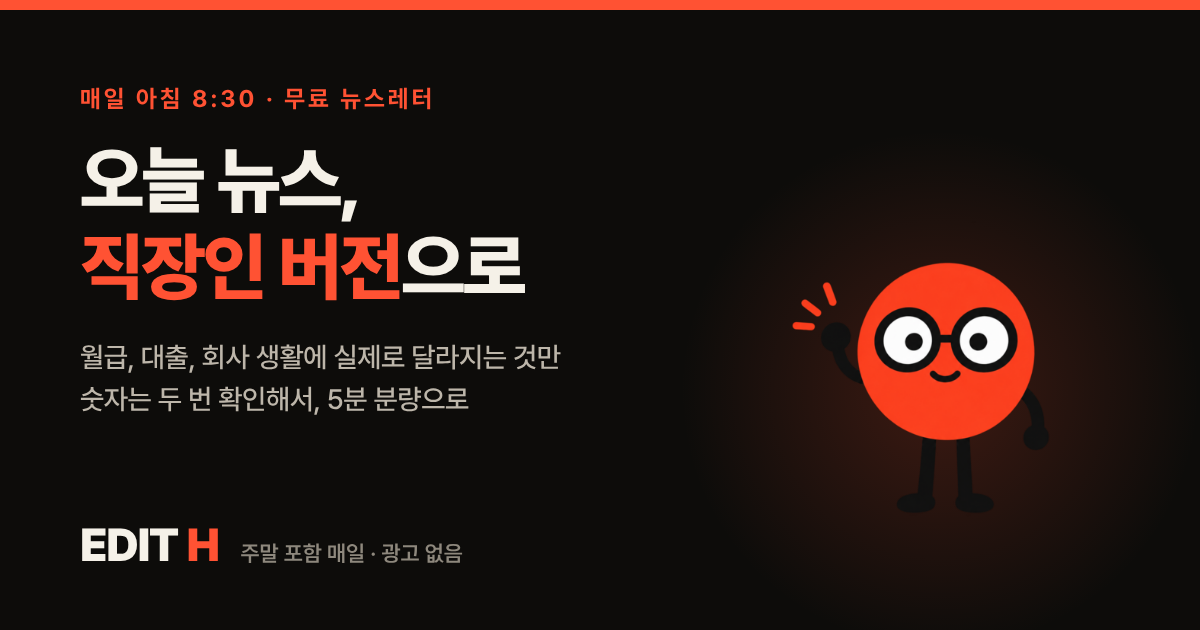
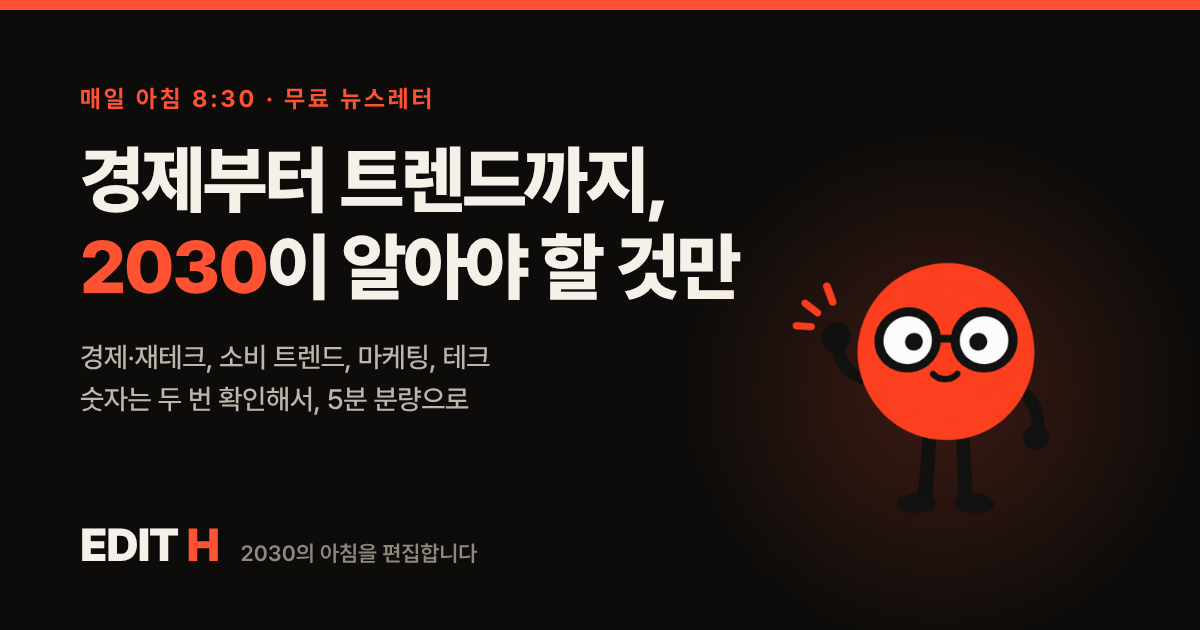
Broaden EDIT H to all of 2030 and make the closing block stand out
- Brand line becomes "2030의 아침을 편집합니다"; the home and subscribe page
  headline becomes "경제부터 트렌드까지, 2030이 알아야 할 것만" (owner: wider
  than office workers — marketing, trends, economy). The newsletter footer
  and share mail (from the 11/01 issue), RSS and og_image follow.
- RUNBOOK selection rule 1 now covers four strands (economy, trends,
  marketing and brands, work and tech), with a mix rule. audience is "2030".
  AGENTS.md intro updated; E18 added to references.md (judged 11/22).
- The IG follow card intro line switches from 11/07, after the E11 sample.
- Closing CTA: a dark band with an orange accent, an orange button and the
  mascot on a light circle, replacing orange on orange. The sticky bar hides
  over the closing block and the footer.
- selftest checks the new copy and the 11/07 follow-card line.

Claude-Session: https://claude.ai/code/session_01ERT3EipEoswRZZJYwfnxsr

Changed region(s): [[0.0617, 0.2111, 0.6167, 0.4825], [0.0617, 0.5429, 0.4625, 0.6032], [0.185, 0.8444, 0.4008, 0.9048]]

diff --git a/index.html b/index.html
@@ -3,11 +3,11 @@
 <head>
 <meta charset="UTF-8">
 <meta name="viewport" content="width=device-width, initial-scale=1.0">
-<title>EDIT H — 오늘 뉴스, 직장인 버전으로</title>
-<meta name="description" content="오늘 뉴스, 직장인 버전으로. 쏟아지는 뉴스 중 월급, 대출, 회사 생활에 실제로 달라지는 것만 골라 매일 아침 8시 30분에 보내는 무료 뉴스레터 EDIT H. 지난 호를 모두 볼 수 있어요.">
+<title>EDIT H — 경제부터 트렌드까지, 2030이 알아야 할 것만</title>
+<meta name="description" content="경제부터 트렌드까지, 2030이 알아야 할 것만. 경제·재테크, 소비 트렌드, 마케팅·브랜드, 테크 소식을 골라 매일 아침 8시 30분에 보내는 무료 뉴스레터 EDIT H. 지난 호를 모두 볼 수 있어요.">
 <meta name="theme-color" content="#FFFFFF">
-<meta property="og:title" content="EDIT H — 오늘 뉴스, 직장인 버전으로">
-<meta property="og:description" content="월급, 대출, 회사 생활에 실제로 달라지는 것만 골라 매일 아침 8시 30분에. 무료·광고 없음.">
+<meta property="og:title" content="EDIT H — 경제부터 트렌드까지, 2030이 알아야 할 것만">
+<meta property="og:description" content="2030의 아침을 편집합니다. 매일 아침 8시 30분, 무료·광고 없음.">
 <meta property="og:image" content="https://vetnam555-del.github.io/edit-h-archive/og_image.png">
 <meta property="og:image:width" content="1200">
 <meta property="og:image:height" content="630">
@@ -23,7 +23,7 @@
 <link rel="preconnect" href="https://cdn.jsdelivr.net" crossorigin>
 <link rel="stylesheet" href="https://cdn.jsdelivr.net/gh/orioncactus/pretendard@v1.3.9/dist/web/variable/pretendardvariable-dynamic-subset.min.css">
 <!-- 2026-11-01 운영자 "첫 화면에서 바로 구독 신청해서 구독 수를 높이게 구조 변경 + 디자인 전체 개선" → 같은 날 "좀 촌스러운 것 같은데"
-     → "내 돈·일·소비 같은 문구도 촌스럽다"(문구 체계: automation/reviews/2026-11-01-copy.md — 대표 한 줄 '오늘 뉴스, 직장인 버전으로').
+     → "내 돈·일·소비 같은 문구도 촌스럽다"(문구 체계: automation/reviews/2026-11-01-copy.md — 대표 한 줄 '2030의 아침을 편집합니다' — 11/01 운영자 '직장인보다 2030 마케팅·트렌드·경제 폭넓게').
      2판: 레퍼런스(Morning Brew·1440·캐릿)처럼 단색 바탕·큰 글자·입력칸 하나로 줄이고, 장식(빛번짐·이모지·말풍선)을 빼고,
      실제로 보낸 최근 호를 휴대폰 모양 안에 그대로 보여 준다(무엇을 받는지 첫 화면에서). 색·칩은 뉴스레터 본문과 같은 말투.
      구독 칸은 subscribe.html 과 같은 Formspree 주소·칸. 지난 호 목록·최근 호 카드·호 수는 빌드가 manifest 로 다시 쓴다
@@ -168,12 +168,16 @@
   .noresult { margin: 18px 0 0; padding: 18px; background: var(--band); border-radius: 14px; color: var(--sub); text-align: center; }
 
   /* 마지막 권유 */
-  .closing { margin-top: 80px; background: var(--brand); color: var(--ink); }
-  .closing .wrap { display: flex; flex-wrap: wrap; align-items: center; justify-content: space-between; gap: 24px; padding-top: 52px; padding-bottom: 52px; }
-  .closing h2 { margin: 0 0 6px; font-size: clamp(26px, 6vw, 38px); line-height: 1.2; letter-spacing: -0.045em; font-weight: 800; }
-  .closing p { margin: 0; font-size: 15px; font-weight: 500; }
+  /* 11/01 운영자 "하단이 전부 주황색이라 눈에 안 띈다"(주황 바탕에 주황 마스코트·검은 글씨) → 검은 띠 위에 주황 마스코트·주황 버튼 */
+  .closing { margin-top: 80px; background: var(--ink); color: #fff; }
+  .closing .wrap { display: flex; flex-wrap: wrap; align-items: center; justify-content: space-between; gap: 24px; padding-top: 56px; padding-bottom: 56px; }
+  .closing h2 { margin: 0 0 8px; font-size: clamp(26px, 6vw, 38px); line-height: 1.2; letter-spacing: -0.045em; font-weight: 800; }
+  .closing h2 .hl { color: var(--brand); }
+  .closing p { margin: 0; font-size: 15px; font-weight: 500; color: #BDB6AA; }
   .closing .act { display: flex; align-items: center; gap: 18px; }
-  .closing img { width: 104px; height: 104px; }
+  .closing img { width: 112px; height: 112px; padding: 8px; border-radius: 50%; background: var(--band); }  /* 검은 띠에서 마스코트 다리·컵이 묻히지 않게 */
+  .closing .btn { color: var(--ink); background: var(--brand); }
+  .closing .btn:hover { background: #FF7356; }
   .btn { display: inline-block; text-decoration: none; font-weight: 700; font-size: 16px; color: #fff; background: var(--ink); padding: 15px 26px; border-radius: 12px; }
   .btn:hover { background: #333; }
   .footer { padding: 32px 0 104px; font-size: 13px; color: var(--mute); }
@@ -218,8 +222,8 @@
   <div class="wrap">
     <div class="hero-copy">
       <p class="kicker"><span class="dot" aria-hidden="true"></span>매일 아침 8:30 · 무료 뉴스레터</p>
-      <h1 id="hero-title">오늘 뉴스,<br><span class="hl">직장인 버전</span>으로</h1>
-      <p class="lead">쏟아지는 뉴스 중 월급, 대출, 회사 생활에 실제로 달라지는 것만 골라, 소식마다 '그래서 나는 뭘 하면 되는지'까지 5분 분량으로 정리해요. 숫자는 서로 다른 두 곳에서 확인합니다.</p>
+      <h1 id="hero-title">경제부터 트렌드까지,<br><span class="hl">2030</span>이 알아야 할 것만</h1>
+      <p class="lead">경제와 재테크, 소비 트렌드, 마케팅과 브랜드, 테크까지. 쏟아지는 소식 중 오늘 알아야 할 것만 골라 '그래서 나는?'까지 5분 분량으로 정리해요. 숫자는 서로 다른 두 곳에서 확인합니다.</p>
 
       <form class="sub-form" id="subscribeForm" action="https://formspree.io/f/xwvznwyw" method="POST">
         <div class="field">
@@ -263,7 +267,7 @@
   <div class="wrap">
     <div class="fact"><b><span data-issue-count>130</span>호</b><small>주말·공휴일 포함<br>매일 발행</small></div>
     <div class="fact"><b>2곳</b><small>숫자는 서로 다른<br>두 곳에서 확인</small></div>
-    <div class="fact"><b>5분</b><small>출근길에<br>다 읽는 분량</small></div>
+    <div class="fact"><b>5분</b><small>아침에<br>다 읽는 분량</small></div>
   </div>
 </section>
 
@@ -303,7 +307,7 @@
       <div class="search">
         <svg viewBox="0 0 24 24" fill="none" stroke="currentColor" stroke-width="2.2" stroke-linecap="round" aria-hidden="true"><circle cx="11" cy="11" r="7"/><path d="m20 20-3.5-3.5"/></svg>
         <label for="q" class="sr-only">지난 호 검색</label>
-        <input type="search" id="q" placeholder="지난 호 검색 (예: 금리, 연말정산)" autocomplete="off">
+        <input type="search" id="q" placeholder="지난 호 검색 (예: 금리, 브랜드, AI)" autocomplete="off">
       </div>
     </div>
     <p class="noresult" id="noresult" hidden>찾는 말이 들어간 호가 없어요. 다른 말로 찾아보세요.</p>
@@ -1106,11 +1110,11 @@
 <section class="closing" aria-labelledby="cta-title">
   <div class="wrap">
     <div>
-      <h2 id="cta-title">내일 아침 8시 30분,<br>메일함에서 만나요</h2>
+      <h2 id="cta-title">내일 아침 <span class="hl">8시 30분</span>,<br>메일함에서 만나요</h2>
       <p>무료 · 광고 없음 · 언제든 1-click 해지</p>
     </div>
     <div class="act">
-      <img src="assets/mascot/h-coffee.png" width="104" height="104" alt="" aria-hidden="true">
+      <img src="assets/mascot/h-coffee.png" width="112" height="112" alt="" aria-hidden="true">
       <a class="btn" href="#subscribe" data-jump>무료로 구독하기</a>
     </div>
   </div>
@@ -1193,11 +1197,18 @@
     a.addEventListener('click', function () { $('privacy').open = true; });
   });
 
-  // 아래 고정 띠 — 구독 칸이 화면 밖일 때만, 이미 신청했으면 안 보인다
+  // 아래 고정 띠 — 구독 칸·마지막 권유·바닥이 화면 밖일 때만(겹쳐 가리지 않게), 이미 신청했으면 안 보인다
   if ('IntersectionObserver' in window && store.get('edith_subscribed') !== '1') {
-    new IntersectionObserver(function (es) {
-      es.forEach(function (en) { sticky.hidden = en.isIntersecting || !form.offsetParent; });
-    }, { threshold: 0.05 }).observe(form);
+    var inView = [], spots = [form, document.querySelector('.closing'), document.querySelector('.footer')].filter(Boolean);
+    var io = new IntersectionObserver(function (es) {
+      es.forEach(function (en) {
+        var i = inView.indexOf(en.target);
+        if (en.isIntersecting && i < 0) inView.push(en.target);
+        if (!en.isIntersecting && i >= 0) inView.splice(i, 1);
+      });
+      sticky.hidden = inView.length > 0 || !form.offsetParent;
+    }, { threshold: 0.05 });
+    spots.forEach(function (el) { io.observe(el); });
   }
 
   // 지난 호 찾기 — 제목·부제·날짜에 든 말로 거른다

diff --git a/subscribe.html b/subscribe.html
@@ -3,12 +3,12 @@
 <head>
 <meta charset="UTF-8">
 <meta name="viewport" content="width=device-width, initial-scale=1.0">
-<title>EDIT H 구독하기 — 오늘 뉴스, 직장인 버전으로</title>
-<meta name="description" content="오늘 뉴스, 직장인 버전으로. 월급, 대출, 회사 생활에 실제로 달라지는 것만 골라 매일 아침 8시 30분에 보내는 무료 뉴스레터 EDIT H 구독 신청.">
+<title>EDIT H 구독하기 — 경제부터 트렌드까지, 2030이 알아야 할 것만</title>
+<meta name="description" content="경제부터 트렌드까지, 2030이 알아야 할 것만. 매일 아침 8시 30분에 보내는 무료 뉴스레터 EDIT H 구독 신청.">
 <link rel="canonical" href="https://vetnam555-del.github.io/edit-h-archive/subscribe.html">
 <meta name="theme-color" content="#FFFFFF">
-<meta property="og:title" content="EDIT H — 오늘 뉴스, 직장인 버전으로">
-<meta property="og:description" content="월급, 대출, 회사 생활에 실제로 달라지는 것만 골라 매일 아침 8시 30분에. 무료·광고 없음.">
+<meta property="og:title" content="EDIT H — 경제부터 트렌드까지, 2030이 알아야 할 것만">
+<meta property="og:description" content="2030의 아침을 편집합니다. 매일 아침 8시 30분, 무료·광고 없음.">
 <meta property="og:type" content="website">
 <meta property="og:image" content="https://vetnam555-del.github.io/edit-h-archive/og_image.png">
 <meta property="og:image:width" content="1200">
@@ -163,12 +163,16 @@
   .noresult { margin: 18px 0 0; padding: 18px; background: var(--band); border-radius: 14px; color: var(--sub); text-align: center; }
 
   /* 마지막 권유 */
-  .closing { margin-top: 80px; background: var(--brand); color: var(--ink); }
-  .closing .wrap { display: flex; flex-wrap: wrap; align-items: center; justify-content: space-between; gap: 24px; padding-top: 52px; padding-bottom: 52px; }
-  .closing h2 { margin: 0 0 6px; font-size: clamp(26px, 6vw, 38px); line-height: 1.2; letter-spacing: -0.045em; font-weight: 800; }
-  .closing p { margin: 0; font-size: 15px; font-weight: 500; }
+  /* 11/01 운영자 "하단이 전부 주황색이라 눈에 안 띈다"(주황 바탕에 주황 마스코트·검은 글씨) → 검은 띠 위에 주황 마스코트·주황 버튼 */
+  .closing { margin-top: 80px; background: var(--ink); color: #fff; }
+  .closing .wrap { display: flex; flex-wrap: wrap; align-items: center; justify-content: space-between; gap: 24px; padding-top: 56px; padding-bottom: 56px; }
+  .closing h2 { margin: 0 0 8px; font-size: clamp(26px, 6vw, 38px); line-height: 1.2; letter-spacing: -0.045em; font-weight: 800; }
+  .closing h2 .hl { color: var(--brand); }
+  .closing p { margin: 0; font-size: 15px; font-weight: 500; color: #BDB6AA; }
   .closing .act { display: flex; align-items: center; gap: 18px; }
-  .closing img { width: 104px; height: 104px; }
+  .closing img { width: 112px; height: 112px; padding: 8px; border-radius: 50%; background: var(--band); }  /* 검은 띠에서 마스코트 다리·컵이 묻히지 않게 */
+  .closing .btn { color: var(--ink); background: var(--brand); }
+  .closing .btn:hover { background: #FF7356; }
   .btn { display: inline-block; text-decoration: none; font-weight: 700; font-size: 16px; color: #fff; background: var(--ink); padding: 15px 26px; border-radius: 12px; }
   .btn:hover { background: #333; }
   .footer { padding: 32px 0 104px; font-size: 13px; color: var(--mute); }
@@ -213,8 +217,8 @@
   <div class="wrap">
     <div class="hero-copy">
       <p class="kicker"><span class="dot" aria-hidden="true"></span>매일 아침 8:30 · 무료 뉴스레터</p>
-      <h1 id="hero-title">오늘 뉴스,<br><span class="hl">직장인 버전</span>으로</h1>
-      <p class="lead">쏟아지는 뉴스 중 월급, 대출, 회사 생활에 실제로 달라지는 것만 골라, 소식마다 '그래서 나는 뭘 하면 되는지'까지 5분 분량으로 정리해요. 숫자는 서로 다른 두 곳에서 확인합니다.</p>
+      <h1 id="hero-title">경제부터 트렌드까지,<br><span class="hl">2030</span>이 알아야 할 것만</h1>
+      <p class="lead">경제와 재테크, 소비 트렌드, 마케팅과 브랜드, 테크까지. 쏟아지는 소식 중 오늘 알아야 할 것만 골라 '그래서 나는?'까지 5분 분량으로 정리해요. 숫자는 서로 다른 두 곳에서 확인합니다.</p>
 
       <form id="subscribeForm" action="https://formspree.io/f/xwvznwyw" method="POST" class="sub-form">
         <div class="field">

diff --git a/automation/selftest.py b/automation/selftest.py
@@ -1153,6 +1153,9 @@ def t_card_ratio():
                "3:4 날 카드에 1440 높이·팔로우 카드가 없다")
         page_old, _ = cards.build(d, "")
         expect(".card{height:1440px;}" not in page_old and "팔로우하고 내일 아침에 받기" not in page_old, "지난 호 카드가 바뀐다")
+        page_v2, _ = cards.build({**d, "date": cards.FOLLOW_LINE_V2_FROM}, "")
+        expect("2030이 알아야 할 소식" in page_v2 and "돈·일·소비 뉴스" not in page_v2,
+               "E11 표본 다음 날부터 팔로우 카드 소개 줄이 새 문구(2030 폭넓게)가 아니다")
         expect(cards.follow_on({"date": "2026-10-31"}) and not cards.follow_on({"date": "2026-10-31", "poll": {"q": 1}}),
                "팔로우 카드 날짜·투표 날 예외가 틀린다")
         html_page = site.gallery_page(d_new, "https://x", ["01.png"], "caption")
@@ -1557,7 +1560,8 @@ def t_home():
 
 def t_brand_v2():
     """문구·마크 2판(2026-11-01 운영자 '내 돈·일·소비 같은 문구가 촌스럽다', automation/reviews/2026-11-01-copy.md):
-    11/01 호부터 메일 바닥·추천 메일이 '오늘 뉴스, 직장인 버전으로', 프로필 카드·노트 마크가 마스코트 얼굴(미소)이고,
+    11/01 호부터 메일 바닥·추천 메일이 대표 한 줄(BRAND_LINE — 같은 날 운영자 '직장인보다 2030 마케팅·트렌드·경제 폭넓게'로
+    '2030의 아침을 편집합니다'), 프로필 카드·노트 마크가 마스코트 얼굴(미소)이고,
     그 전 호는 예전 그대로(지난 호 다시 빌드가 발행본과 같아야 한다). 사이트·구독 페이지·RSS 에 옛 문구가 남지 않았다."""
     import copy as copy_mod
     import inspect
@@ -1576,7 +1580,8 @@ def t_brand_v2():
     expect("border-radius:0 0" in b and "border-radius:0 0" not in a, "11/01 호 프로필·노트 마크가 마스코트 얼굴(미소)이 아니다")
     for name in ("index.html", "subscribe.html"):
         page = (ROOT / name).read_text(encoding="utf-8")
-        expect("직장인 버전" in page and "돈·일·소비에" not in page and "트렌드 한 입" not in page and "TREND BRIEF" not in page,
+        expect("2030이 알아야 할 것만" in page and "직장인 버전" not in page and "돈·일·소비에" not in page
+               and "트렌드 한 입" not in page and "TREND BRIEF" not in page,
                f"{name} 에 옛 문구가 남았거나 새 대표 문구가 없다")
     expect("트렌드 한 입" not in inspect.getsource(site_mod.write_feeds), "RSS 제목이 옛 문구다")
     return f"{newsletter.BRAND_V2_FROM} 호부터 · '{newsletter.BRAND_LINE}'"
@@ -1740,7 +1745,7 @@ def main():
     check("데일리 저장각(체크리스트·차트)", t_save_cards)
     check("마스코트(안경 동그라미 H)", t_mascot)
     check("첫 화면 구독·사이트 그림(index.html)", t_home)
-    check("문구·마크 2판(직장인 버전·마스코트 얼굴)", t_brand_v2)
+    check("문구·마크 2판(2030 대표 한 줄·마스코트 얼굴)", t_brand_v2)
     check("경쟁 매체 인스타(비즈니스 탐색)", t_competitors_ig)
     check("경쟁 매체 웹(토큰 없이·robots 지킴)", t_competitors_web)
     if not args.quick:

diff --git a/automation/edith/cards.py b/automation/edith/cards.py
@@ -507,6 +507,17 @@ def follow_on(d):
     return bool(start and str(d["date"])[:10] >= start and not d.get("poll"))
 
 
+# 팔로우 카드 소개 줄 — 11/01 운영자 "꼭 직장인보다는 2030 마케팅, 트렌드, 경제 등 폭넓게"(automation/reviews/2026-11-01-copy.md).
+# E11(팔로우 카드) 표본 10/31~11/06 은 예전 줄 그대로 두고 그다음 날부터 바꾼다. 지난 호 카드는 다시 만들어도 예전 그대로(기록).
+FOLLOW_LINE_V2_FROM = "2026-11-07"
+
+
+def follow_line(d, when, n):
+    if str(d["date"])[:10] >= FOLLOW_LINE_V2_FROM:
+        return f"매일 아침 {when}, 경제부터 트렌드까지 2030이 알아야 할 소식 {n}가지"
+    return f"매일 아침 {when}, 2030 직장인의 돈·일·소비 뉴스 {n}가지"
+
+
 def cta_follow(d):
     """마무리 — 팔로우 카드(2026-10-30 운영자 '슬라이드투티켓 템플릿 ver.3' 엔딩: 이미지·계정명 중심, '어떤 계정인지·앞으로 무엇을
     만날지' 한 문장, 팔로우 버튼). 예전 마무리는 '팔로우 + 저장해두기>'가 옅은 글자 링크라 캐러셀을 보고 팔로우 0·프로필 방문 2
@@ -529,7 +540,7 @@ def cta_follow(d):
     padding:44px 48px 40px;display:flex;flex-direction:column;align-items:center;text-align:center;">
     {avatar(132)}
     <div style="margin-top:22px;font-weight:800;font-size:{fs(40)};line-height:1;color:{TEXT};">edit.h.kr</div>
-    <div class="bal" style="margin-top:16px;font-weight:500;font-size:{fs(30)};line-height:1.45;color:{SUB};">매일 아침 {when}, 2030 직장인의 돈·일·소비 뉴스 {n}가지</div>
+    <div class="bal" style="margin-top:16px;font-weight:500;font-size:{fs(30)};line-height:1.45;color:{SUB};">{follow_line(d, when, n)}</div>
     <div style="flex:none;width:100%;display:grid;grid-template-columns:repeat(3,1fr);margin-top:28px;">{stat_html}</div>
     <div style="flex:none;margin-top:32px;width:100%;background:#000000;color:#FFFFFF;border-radius:999px;padding:26px 0;
       font-weight:800;font-size:{fs(36)};line-height:1;">팔로우하고 내일 아침에 받기</div>

diff --git a/automation/edith/newsletter.py b/automation/edith/newsletter.py
@@ -212,9 +212,9 @@ AVATAR_MARK = ('<table role="presentation" aria-hidden="true" width="58" height=
 
 # 2026-11-01 운영자 '내 돈·일·소비 같은 문구가 촌스럽다 … 프로필 이미지도 최신본으로'(automation/reviews/2026-11-01-copy.md).
 # 이날 호부터 ① 프로필·노트 마크를 마스코트 얼굴(안경 + 미소, assets/mascot/profile.png)로 ② 바닥·추천 메일 문구를 새 한 줄
-# '오늘 뉴스, 직장인 버전으로'로. 지난 호를 다시 빌드하면 예전 그대로 나온다(기록). 메일엔 여전히 그림 파일을 쓰지 않고 도형으로 그린다.
+# '2030의 아침을 편집합니다'로(같은 날 운영자 '직장인보다 2030 마케팅·트렌드·경제 폭넓게'로 고침). 지난 호를 다시 빌드하면 예전 그대로 나온다(기록). 메일엔 여전히 그림 파일을 쓰지 않고 도형으로 그린다.
 BRAND_V2_FROM = "2026-11-01"
-BRAND_LINE = "오늘 뉴스, 직장인 버전으로"
+BRAND_LINE = "2030의 아침을 편집합니다"   # 11/01 운영자: 직장인보다 2030 마케팅·트렌드·경제 폭넓게
 
 
 def _v2(d):
@@ -421,7 +421,7 @@ def _share_mailto(d, site):
     when = send_time_ko(load_config()['send_time_kst']).replace('오전', '아침')
     if _v2(d):
         subject = f"{BRAND_LINE} — EDIT H 추천해요"
-        pitch = f"매일 {when}, 직장인에게 실제로 달라지는 소식 {n}가지를 골라 보내줘요."
+        pitch = f"매일 {when}, 경제부터 트렌드까지 2030이 알아야 할 소식 {n}가지를 골라 보내줘요."
     else:
         subject = "매일 아침 트렌드 한 입, EDIT H 추천해요"
         pitch = f"매일 {when}에 트렌드 {n}가지를 정리해서 보내줘요."

diff --git a/automation/build_site_assets.py b/automation/build_site_assets.py
@@ -44,10 +44,10 @@ h1{{font-size:74px;line-height:1.17;font-weight:850;letter-spacing:-2.5px;margin
 <div class="bar"></div>
 <div class="wrap">
   <div class="eyebrow">매일 아침 8:30 · 무료 뉴스레터</div>
-  <h1>오늘 뉴스,<br><span class="hl">직장인 버전</span>으로</h1>
-  <div class="sub">월급, 대출, 회사 생활에 실제로 달라지는 것만<br>숫자는 두 번 확인해서, 5분 분량으로</div>
+  <h1>경제부터 트렌드까지,<br><span class="hl">2030</span>이 알아야 할 것만</h1>
+  <div class="sub">경제·재테크, 소비 트렌드, 마케팅, 테크<br>숫자는 두 번 확인해서, 5분 분량으로</div>
 </div>
-<div class="foot"><div class="logo">EDIT<span class="h"> H</span></div><div class="meta">주말 포함 매일 · 광고 없음</div></div>
+<div class="foot"><div class="logo">EDIT<span class="h"> H</span></div><div class="meta">2030의 아침을 편집합니다</div></div>
 <div class="glow"></div>
 <img class="mascot" src="{hello}" alt="">
 </body></html>"""

diff --git a/automation/edith/site.py b/automation/edith/site.py
@@ -128,10 +128,10 @@ def write_feeds(manifest, site):
     FEED.write_text(
         '<?xml version="1.0" encoding="UTF-8"?>\n'
         '<rss version="2.0" xmlns:atom="http://www.w3.org/2005/Atom">\n<channel>\n'
-        "  <title>EDIT H — 오늘 뉴스, 직장인 버전으로</title>\n"
+        "  <title>EDIT H — 2030의 아침을 편집합니다</title>\n"
         f"  <link>{site}/</link>\n"
         f'  <atom:link href="{site}/feed.xml" rel="self" type="application/rss+xml"/>\n'
-        "  <description>매일 아침 8시 30분, 월급·대출·회사 생활에 실제로 달라지는 소식만 확인된 숫자로</description>\n"
+        "  <description>매일 아침 8시 30분, 경제부터 트렌드까지 2030이 알아야 할 소식을 확인된 숫자로</description>\n"
         "  <language>ko</language>\n"
         f"  <lastBuildDate>{now}</lastBuildDate>\n"
         + "\n".join(items) + "\n</channel>\n</rss>\n", encoding="utf-8")

diff --git a/automation/references.md b/automation/references.md
@@ -15,6 +15,7 @@
 | **E4 수요일 연재 「H의 장부」** | **11/04~11/25 (4편)**(10/28 도 예비 호(Claude 사용량 바닥)라 또 한 주 밀림 — 회차는 실제로 나간 호로 세므로 11/04 가 #1. 10/21 1편 날은 제작·회고 세션과 예약 알림이 하루 동안 깨지 않아 예비 호가 나갔다 — 회차는 실제로 나간 호로 세므로 10/28 이 #1. 4편을 채우려고 한 주 늘림) | 수요일 H PICK = 소비 하나를 그 회사 숫자로 푸는 고정 연재(머니그라피 'B주류경제학' 차용) + 표지·카드·캡션에 '#회차 · 다음 편 예고' | 4편 뒤 성과표 '연재' 줄(연재 시작일부터 모든 호를 게시 24시간 뒤 점수·도달·조회로 — 14일 창 밖의 편도 포함): 연재 편 vs 그 밖의 호. 점수(저장·공유 포함)와 도달이 둘 다 앞서면 유지, 둘 다 뒤지면 되돌림 E9(아침 스토리, 10/22~)가 캐러셀 도달을 바꾸므로 **스토리 유무를 맞춰** 비교한다 — 네 편 모두 E9(10/22~) 뒤라 스토리 유무가 같은 날의 다른 호와 비교한다(E9 판정으로 스토리를 끄면 그날부터 다시 나눈다). **판정은 11/25 편의 24시간 값이 들어오는 11/26 21:30 수집 뒤(11/27 개선 루틴부터)** |
 | **E11 팔로우 카드** | **10/31~11/06 (7호)** | 마지막 장을 팔로우 카드로 — 계정 마크·`edit.h.kr`·'매일 아침 8시 30분, 2030 직장인의 돈·일·소비 뉴스 5가지'·검은 '팔로우하고 내일 아침에 받기' 버튼(`cards.cta_follow`, `follow_card_from`). 슬라이드투티켓 템플릿 ver.3 엔딩·가이드 4(reviews/2026-10-30-template-v3.md) | 성과표 캐러셀 **프로필 방문·팔로우(도달당)** 7호 vs 그 전 7호(10/29 기준 14일 합 방문 2·팔로우 0). **11/01 운영자가 프로필 사진을 마스코트 얼굴로 앞당겨 바꾸기로 했다**(assets/mascot/README) — 판정 때 교체 전후를 나눠, 도달당 프로필 방문(카드 쪽)을 주로 보고 방문당 팔로우(사진 효과가 섞임)는 참고로. **판정 11/08 개선 루틴**(11/06 호 24시간 값이 11/07 21:30 수집에) — 이 기간엔 카드를 4:5 로 고정(E12 는 11/07 이후 — 3:4 가 방문·팔로우 전환율에도 닿을 수 있어 같은 기간이면 효과를 가를 수 없다, Codex 검토) |
 | **E17 첫 화면 바로 구독** | **11/01~** | 웹 보관함 첫 화면에 이메일 한 칸 구독(이전: 버튼 → 구독 페이지로 한 번 더 이동). 인스타 프로필 링크(utm_source=ig)로 들어온 사람도 첫 화면에서 바로 신청. 최근 호 먼저 보기 카드·휴대폰 아래 고정 띠·공유 미리보기(og_image, 한글 깨짐 고침)도 함께 | 성과표 '구독 경로' ig-home·web-home 신청 수, 14일 구독 신청 수 vs 그 전 14일(0). 인스타 실험(E11·E12)과 겹치지 않는다(웹 쪽 변화). **판정 11/15 개선 루틴** |
+| **E18 독자 2030 전체로** | **11/01~**(운영자 결정) | 독자를 '2030 직장인의 돈·일·소비'(10/06~10/31, E2) → '2030 — 경제·재테크 / 트렌드·소비 / 마케팅·브랜드 / 일·테크'로 넓히고 메인 5가지는 세 갈래 이상 섞는다(RUNBOOK 1-4 기준 1). 대표 한 줄 '2030의 아침을 편집합니다'. 인스타 팔로우 카드 줄은 11/07~(E11 표본 뒤) | 성과표 독자 축 `2030` vs `2030직장인`(메일 열람·클릭·답장, 캐러셀 저장·공유), 구독 신청 수. E11·E12 와 기간이 겹쳐 인스타 수치는 참고만 하고 메일 지표로 본다. 되돌리기는 하지 않는다(운영자 방향) — 섞는 비율만 조정. **판정 11/22 주간 루틴**(정규 14호 이상) |
 | **E12 3:4 카드(1080×1440)** | **11/07~**(`card_ratio_from` = 2026-11-07 — E11 표본 10/31~11/06 다음 날. API 확인 10/30: probe-ratio 실행 40907737910 에서 1080×1440 캐러셀 컨테이너가 FINISHED — 게시 API 가 3:4 를 받는다, 게시는 안 함) | 카드·주간 특집을 3:4 로 — 프로필 격자(2025-01~ 3:4)에서 4:5 카드 좌우가 잘리고 피드에서 6.7% 더 크게 보인다. 먼저 post-instagram.yml mode=probe-ratio 로 3:4 캐러셀 컨테이너를 만들어 본다(게시 안 함) | 캐러셀 **24시간 도달·조회** 11/07~11/13 7호 vs 그 전 7호 + 격자에서 표지 제목이 잘리지 않는지 눈으로(11/07 08:50 점검). **판정 11/15 개선 루틴**(11/13 호 24시간 값이 11/14 21:30 수집에) |
 | **E13 저장각 주간 특집** | **11/06~11/27 (금 4편)**(`weekly_special.save_card_from` — 10/31 운영자 '개선사항 전부 반영') | 금요일 특집 08 장 '이번 주를 한 줄로' → **'달력에 적어 둘 다가올 날짜'**(시행·마감·기준일 2~4개 — 이미 발행한 호 원고에 글자로 있는 날짜만, 빌드가 검사). 캡션에도 날짜 줄. 경쟁 비교 2차 '잘 되는 매체는 두고 쓰는 자료' | 성과표 **'주간 특집' 표의 도달당 (저장+공유)** 4편 vs 그 전 특집 3편(10/16·10/23·10/30 — 다음 날 값이 없어 4주 누적값의 비율로. 주간 특집 수집은 10/31~). 주간 특집은 데일리와 다른 게시물이라 E11·E12·E4 와 섞이지 않는다. 11/13 부터는 3:4 라 도달로 나눈다. **판정 11/29 개선 루틴**(11/27 편 값이 11/28 21:30 수집에) |
 | **E14 데일리 저장각 — 오늘 챙길 것 카드** | **11/14~11/20 (7호)**(`instagram.todo_card_from`) | 09 에디터 H 노트에 '오늘 챙길 것 · 저장해 두고 체크'(content.todo 3줄 — 메일 첫 화면에만 있던 것) | 캐러셀 **도달당 저장** 7호 vs 그 전 7호(11/07~11/13, 3:4 같은 판형). **판정 11/22 개선 루틴** |

diff --git a/automation/reviews/2026-11-01-copy.md b/automation/reviews/2026-11-01-copy.md
@@ -2,9 +2,24 @@
 
 운영자(11/01 새벽, 웹 호 화면 캡처와 함께): "내 돈·일·소비 이런 문구도 좀 촌스럽고, 상세하게 분석해서 진행해야 할 것 같아."
 
-## 한 줄 결론
+## 고침 (11/01 새벽, 운영자) — 독자를 2030 전체로
 
-새 대표 문구는 **"오늘 뉴스, 직장인 버전으로"**다.
+> "꼭 직장인보다는 2030 마케팅, 트렌드, 경제 등 폭넓게 하고 싶었다."
+
+아래 '직장인 버전'은 독자를 좁힌 10/06 결정(E2)을 그대로 따른 것이었다. 운영자 방향이 '2030 + 경제·트렌드·마케팅'이라 문구 체계를 이렇게 바꾼다.
+
+- **대표 한 줄**: **2030의 아침을 편집합니다** — 이름(EDIT)·발송 시각(아침)·독자(2030)를 한 줄에. 분야를 나열하지 않아 넓은 범위를 다 덮는다.
+- **첫 화면 머리**: **경제부터 트렌드까지, 2030이 알아야 할 것만** — '부터~까지'가 범위의 넓이를, '것만'이 편집(골라 줌)을 말한다.
+- **풀어 쓴 한 문장**: 경제와 재테크, 소비 트렌드, 마케팅과 브랜드, 테크까지. 쏟아지는 소식 중 오늘 알아야 할 것만 골라 '그래서 나는?'까지 5분 분량으로 정리해요. 숫자는 서로 다른 두 곳에서 확인합니다.
+  (분야를 들 때는 가운뎃점 묶음 대신 쉼표와 '~까지'로 — 아래 '쓰지 않는 말' 그대로)
+- **팔로우 카드 소개 줄**(11/07~, E11 표본 뒤): 매일 아침 8시 30분, 경제부터 트렌드까지 2030이 알아야 할 소식 5가지
+- 바뀐 것: 대표 한 줄을 쓰는 모든 곳(사이트·구독 페이지·메일 바닥·추천 메일·RSS·공유 미리보기), RUNBOOK 선정 기준 1(네 갈래 + 섞기 규칙), AGENTS.md 첫 줄.
+- 견줄 곳: 캐릿(트렌드)·뉴닉(시사)·어피티(직장인 경제)의 가운데. 경쟁 매체 대부분은 한 분야만 깊게 한다 — 우리는 **여러 분야를 한 아침에, 확인된 숫자로**가 차이다.
+- '오늘 뉴스, 직장인 버전으로'는 쓰지 않는다(selftest '문구·마크 2판'이 사이트에 남지 않았는지 본다).
+
+## (처음 판) 한 줄 결론
+
+새 대표 문구는 **"오늘 뉴스, 직장인 버전으로"**다(→ 위 '고침'으로 바뀜).
 - 우리 이름이 EDIT(편집)이다. 그래서 '같은 뉴스를 직장인 기준으로 다시 편집해 준다'를 독자의 말로 한 줄에 담았다.
 - 분류 나열('돈·일·소비')과 흔한 말장난('트렌드 한 입')은 뺐다.
 
@@ -63,7 +78,7 @@
 
 | 곳 | 바뀜 | 언제 |
 |---|---|---|
-| 웹 첫 화면(index.html)·구독 페이지(subscribe.html) | 위 문구 체계. 구독 페이지도 첫 화면과 같은 디자인으로 다시 짰다(메일·지난 호의 'EDIT H 구독하기' 버튼이 옛 화면으로 가던 문제) | 11/01 |
+| 웹 첫 화면(index.html)·구독 페이지(subscribe.html) | 위 문구 체계(→ 맨 위 '고침'). 아래 마무리 칸은 주황 한 색이라 묻혀 검은 띠·주황 버튼으로(11/01 새벽 9). 구독 페이지도 첫 화면과 같은 디자인으로 다시 짰다(메일·지난 호의 'EDIT H 구독하기' 버튼이 옛 화면으로 가던 문제) | 11/01 |
 | 공유 미리보기(og_image.png)·RSS 제목 | 대표 한 줄 | 11/01 |
 | 메일(웹 호 포함) 바닥·추천 메일 제목/본문 | '트렌드 한 입' → 대표 한 줄. 프로필 카드·에디터 노트 마크 → 마스코트 얼굴(도형) | **11/01 호부터**(newsletter.py `BRAND_V2_FROM`) — 지난 호는 기록이라 다시 만들지 않는다 |
 | 인스타 카드·캡션 | **그대로** — E11(팔로우 카드, ~11/06)·E12(3:4, 11/07~) 실험 중이라 문구를 바꾸면 효과를 가를 수 없다 | 실험 판정 뒤(11/15 개선 루틴) 후보 |

diff --git a/automation/CHANGELOG.md b/automation/CHANGELOG.md
@@ -3,6 +3,15 @@
 시스템이 날마다 무엇을 바꿨는지 한 줄씩 남긴다 — **바꾼 것 — 왜(근거) — 어떻게 판정·확인**. 최신이 위.
 매일 14:10 개선 루틴(`RUNBOOK_IMPROVE.md`)과 일요일 21:00 주간 루틴이 적는다. 편집 회고는 `learnings.md`, 조사·실험은 `references.md`.
 
+### 2026-11-01 새벽 9 (운영자 — '꼭 직장인보다는 2030 마케팅, 트렌드, 경제 등 폭넓게 … 하단은 전부 주황색이라 눈에 안 띈다')
+- **독자를 2030 전체로 넓혔다** — 대표 한 줄 '오늘 뉴스, 직장인 버전으로'(새벽 7) → **'2030의 아침을 편집합니다'**, 첫 화면·구독 페이지 머리
+  **'경제부터 트렌드까지, 2030이 알아야 할 것만'**. 메일 바닥·추천 메일(newsletter.py `BRAND_LINE`, 11/01 호부터)·RSS·공유 미리보기(og_image)도 같이.
+  RUNBOOK 1-4 기준 1을 네 갈래(경제·재테크 / 트렌드·소비 / 마케팅·브랜드 / 일·테크)와 **섞기 규칙**(메인 5가지는 세 갈래 이상, 한 갈래 3개 이하)으로,
+  `audience` 는 `"2030"`(10/06~10/31 `"2030직장인"` 과 성과표 독자 축으로 나눠 본다). AGENTS.md 첫 줄도. 판정: references.md E18.
+- 인스타 팔로우 카드 소개 줄은 **11/07 부터** 새 문구(cards.py `FOLLOW_LINE_V2_FROM`) — E11 표본(10/31~11/06)은 그대로 둔다.
+- **아래 마무리 칸**: 주황 바탕에 주황 마스코트·검은 글씨라 묻혔다 → 검은 띠 + 흰 글씨('8시 30분'만 주황) + 주황 버튼 + 밝은 원 안의 마스코트.
+  휴대폰 아래 고정 띠가 마무리 칸·바닥을 가리지 않게 그때는 숨긴다. 확인: 390·1280 폭 화면 캡처, selftest '문구·마크 2판'이 새 문구를 본다.
+
 ### 2026-11-01 새벽 8 (운영자 — '문의하기는 makefair@naver.com 으로')
 - 공개 페이지의 문의 주소를 모두 makefair@naver.com 으로 바꿨다 — 첫 화면·구독 페이지 개인정보 처리방침, 수신 거부 페이지 오류 안내,
   5~6월 지난 호 24개 바닥('제작 · …'), v110_preview.html. 지난 호는 다시 만들지 않고 주소 글자만 바꿨다(기록 내용은 그대로).

diff --git a/automation/OWNER_TODO.md b/automation/OWNER_TODO.md
@@ -65,7 +65,7 @@
     구글은 IndexNow 를 받지 않아 **구글 서치 콘솔 등록만은 운영자 몫**으로 남는다. 네이버 서치어드바이저 등록도 해 두면 수집 현황을 볼 수 있다.
 
 - [ ] (선택) **(1분) 인스타 소개글 첫 줄을 새 대표 문구로** — 2026-11-01 문구 다시 보기(`reviews/2026-11-01-copy.md`). 예:
-  `오늘 뉴스, 직장인 버전으로 | 매일 아침 8:30 무료 뉴스레터 ↓` (프로필 편집 → 소개). 사이트·메일은 이미 바꿨다.
+  `2030의 아침을 편집합니다 | 경제·트렌드·마케팅 | 매일 아침 8:30 무료 뉴스레터 ↓` (프로필 편집 → 소개). 사이트·메일은 이미 바꿨다(11/01 새벽, 2030 폭넓게).
 - [ ] (선택) **(1분) 인스타 프로필 사진을 마스코트 얼굴로** — 2026-11-01 운영자 '변경해 줘'로 11/08 이후 계획을 앞당겼다. 파일 `assets/mascot/profile.png`(안전 영역판).
   인스타 앱 → 프로필 편집 → 사진 → 새 프로필 사진. 게시물로도 올릴지 묻는 창이 나오면 공유하지 않는다. 스레드는 프로필 편집 → 사진 → 'Instagram에서 가져오기'.
   **바꾼 날을 알려 주면** E11(팔로우 카드, 10/31~11/06) 판정 때 교체 전후를 나눠 본다. 근거·비교: `assets/mascot/README.md`.
